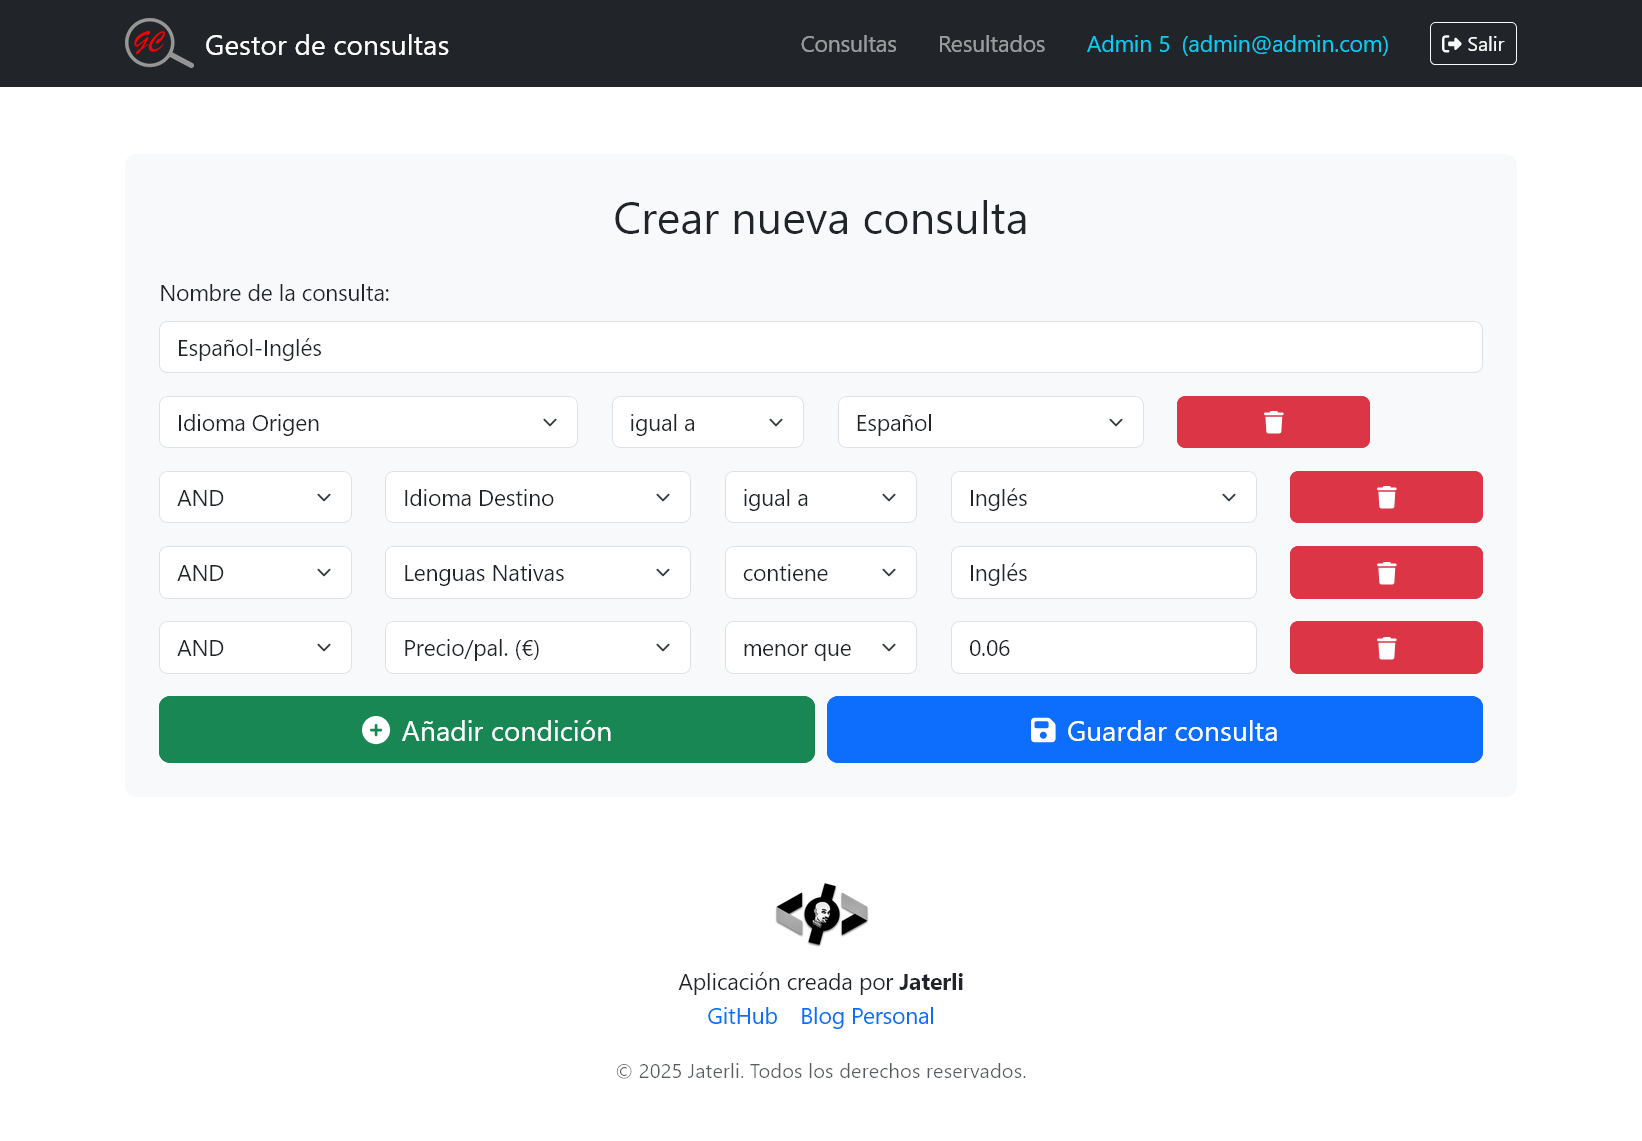
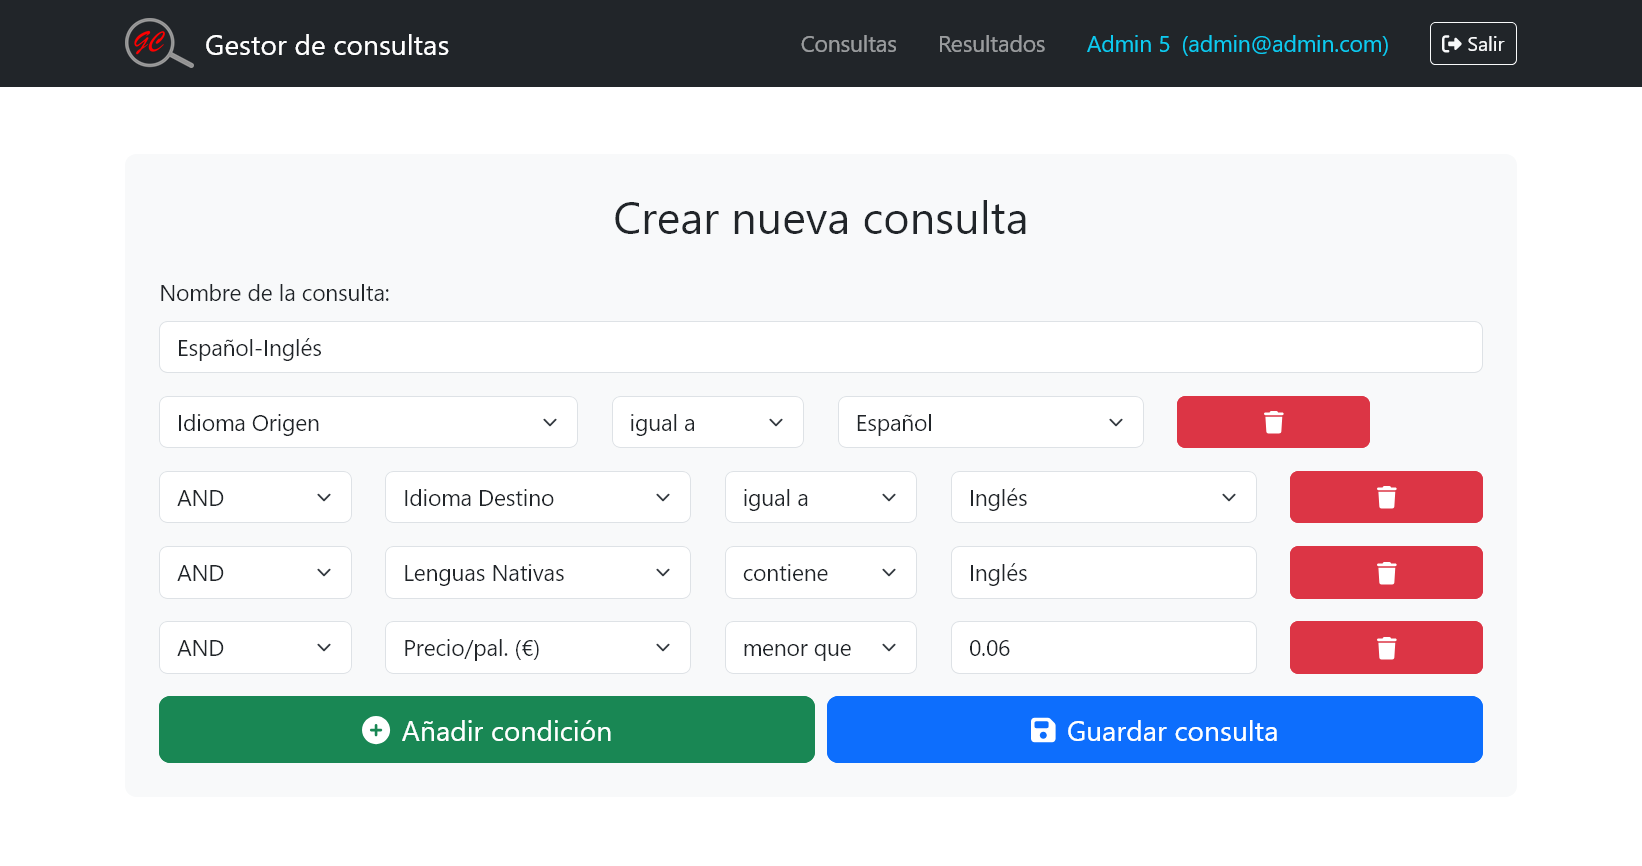
update

diff --git a/src/styles/global.css b/src/styles/global.css
@@ -15,6 +15,10 @@
   font-size: 0.9em;
 }
 
+.prose-lg{
+  line-height: ;
+}
+
 .prose :where(h1){
   font-weight:700;
 }
@@ -25,6 +29,7 @@
 
 h1{
   font-weight: 700;
+  line-height: 3.6rem !important;
 }
 
 h2{
